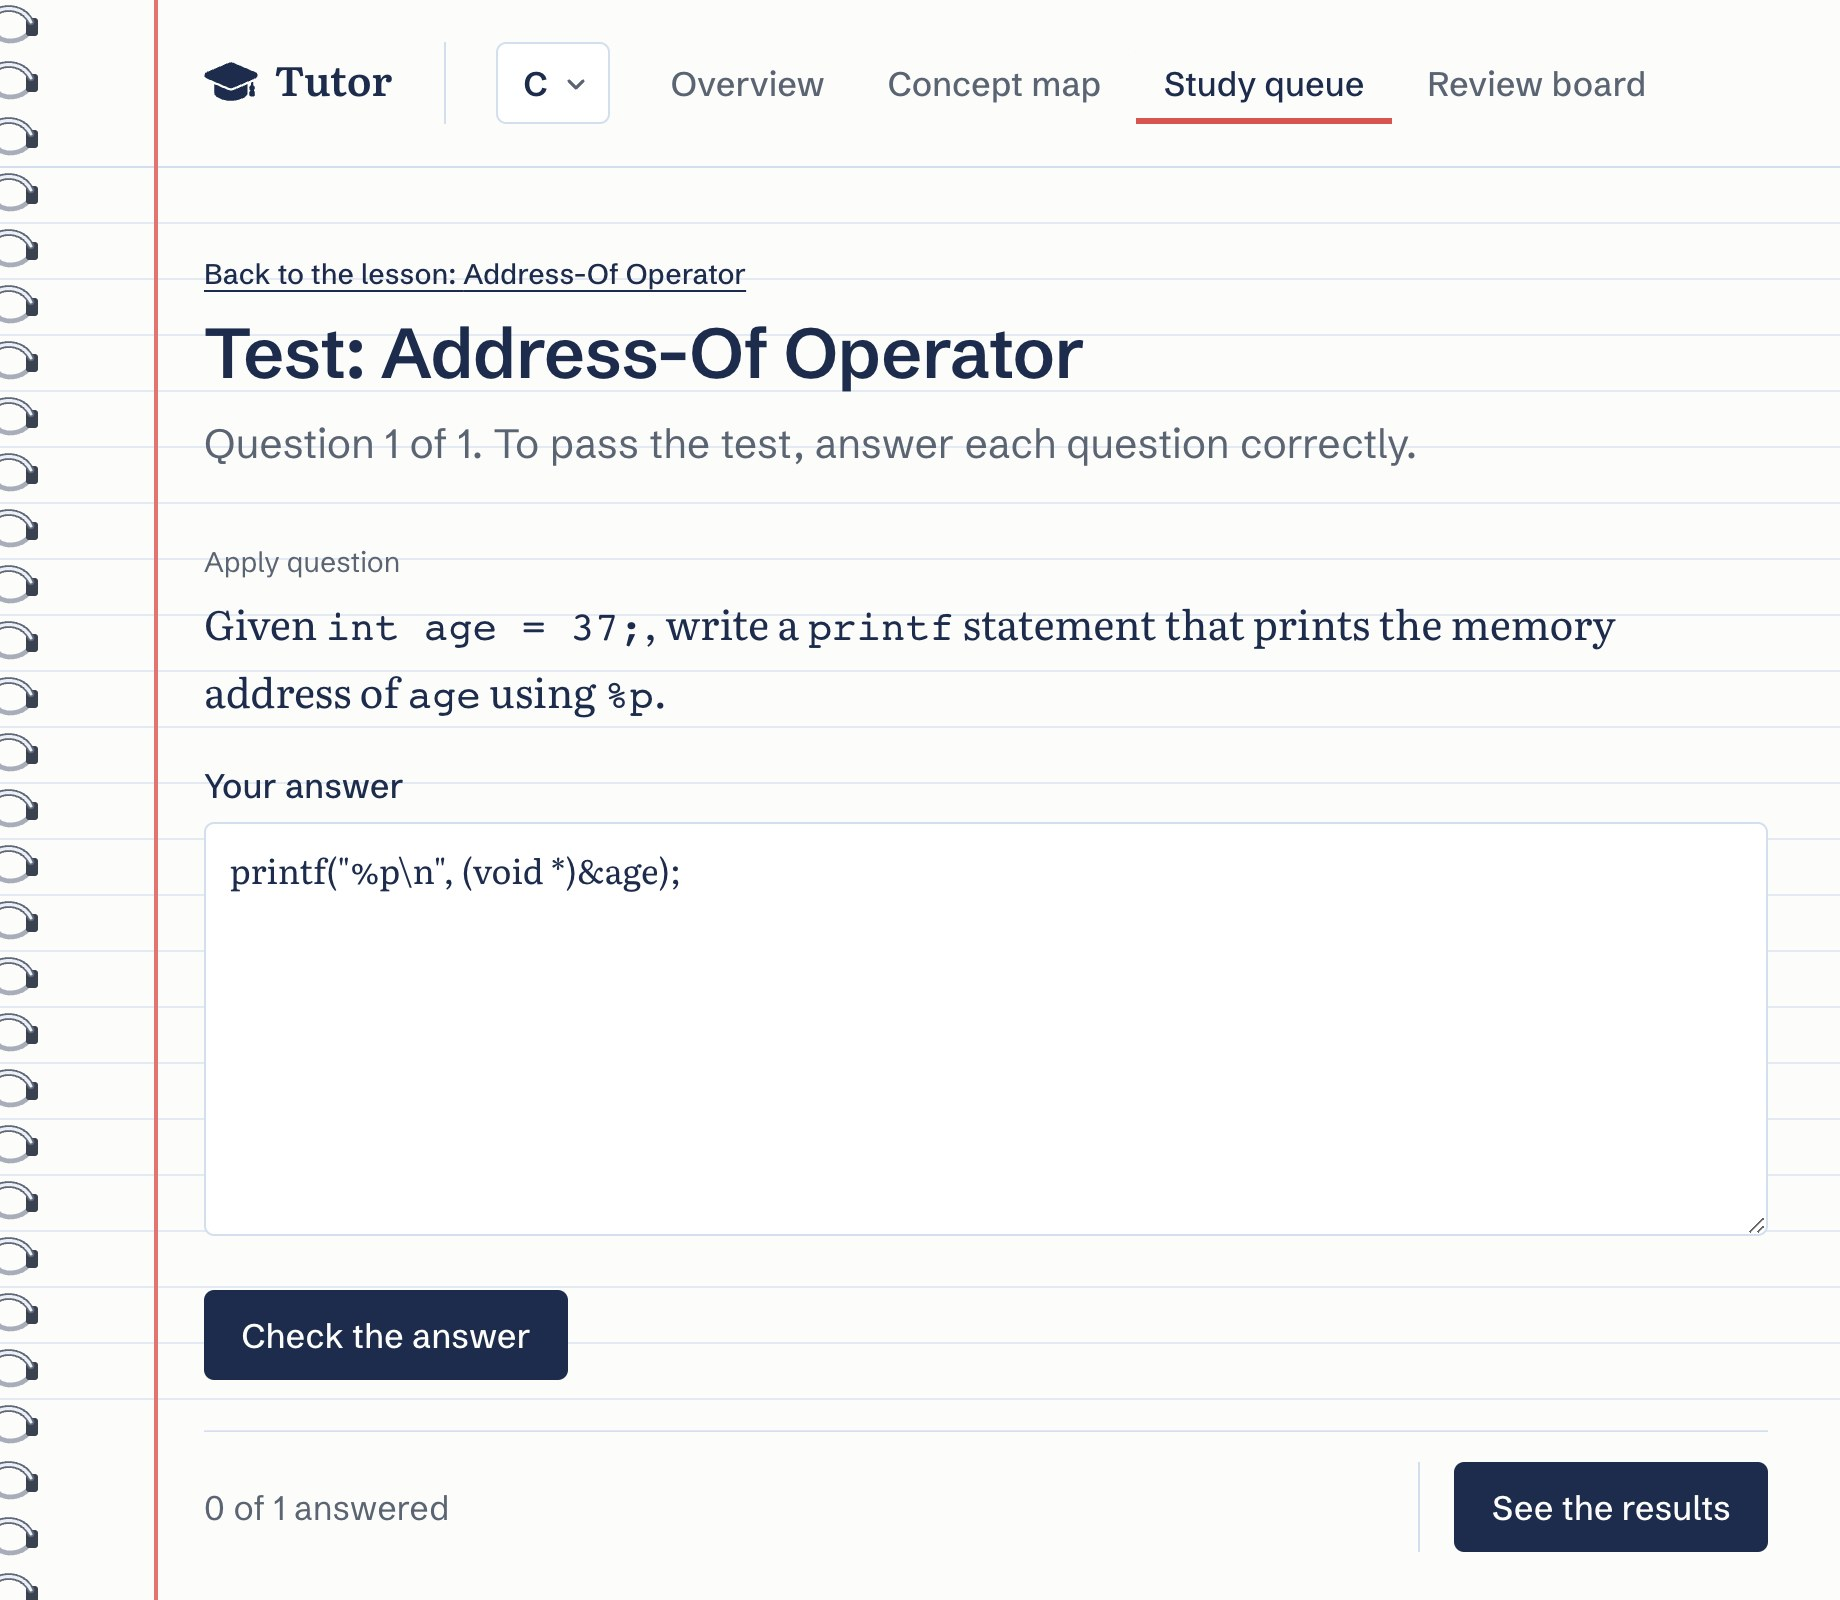
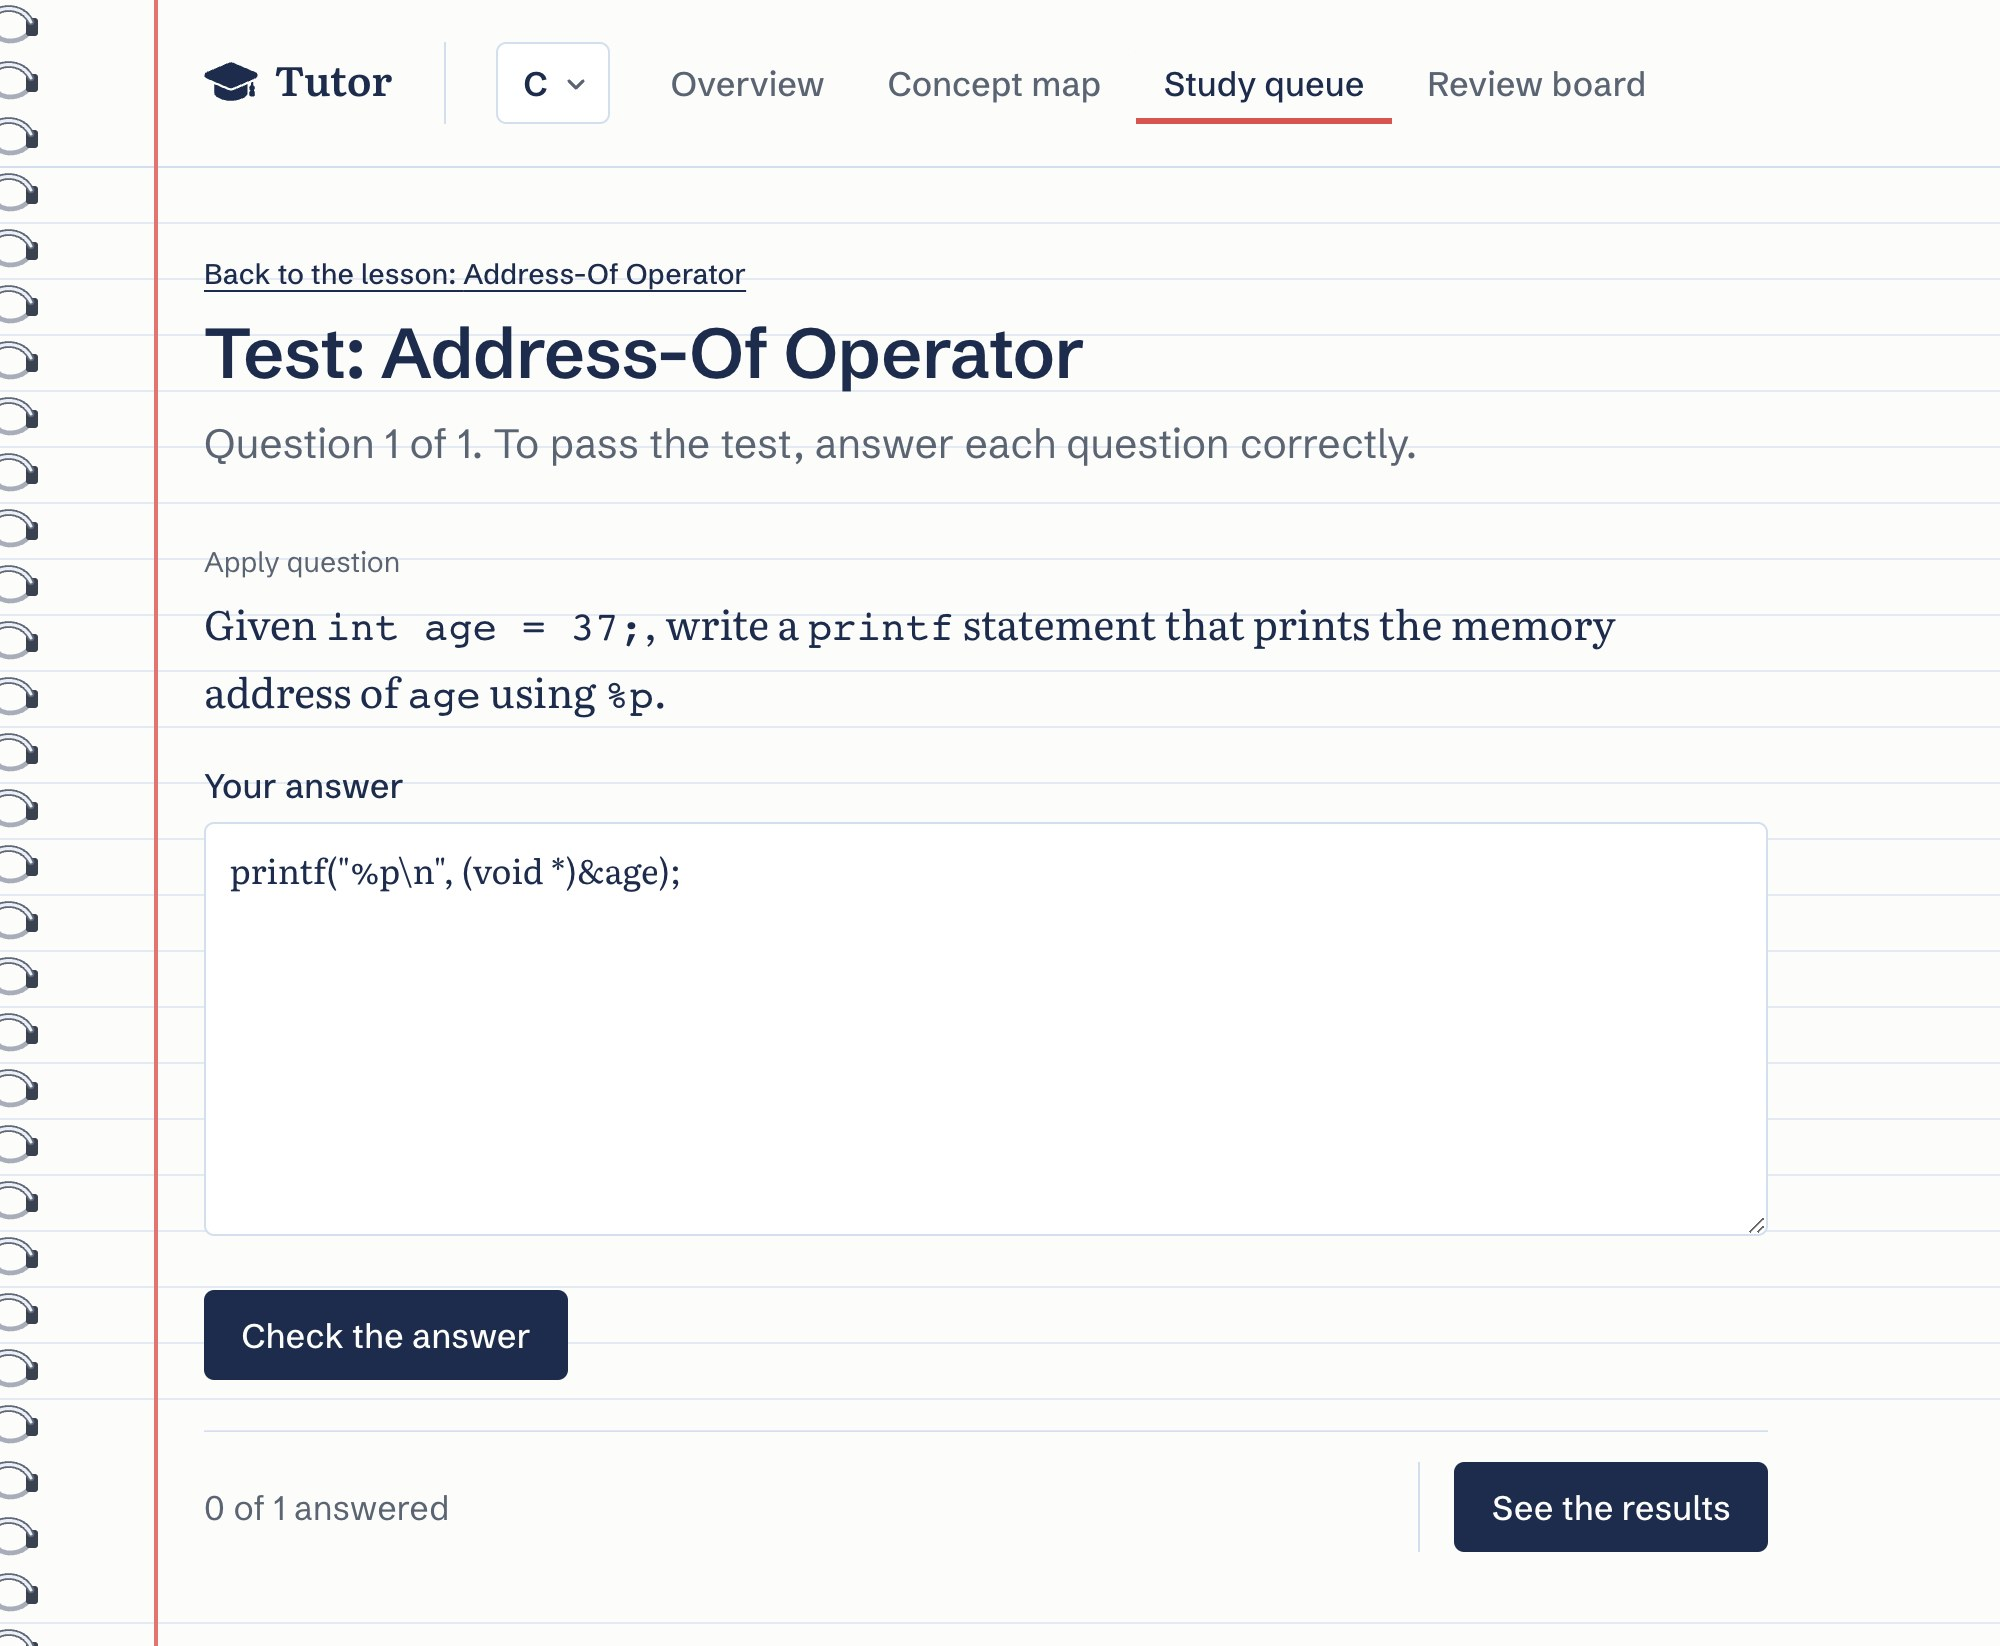
Better screenshots in Readme

diff --git a/README.md b/README.md
@@ -6,9 +6,18 @@ A personal tutor that teaches from your own books. You make a subject of study, 
 
 The tutor runs on your computer. It uses one large language model (LLM) from Anthropic, OpenAI, or OpenRouter. You select the model.
 
-| Concept map | Lesson | Test |
-| :---: | :---: | :---: |
-| <img src="docs/images/concept-map.jpg" alt="The concept map of the subject C. The color of each row shows the status of the concept." width="240"> | <img src="docs/images/lesson.jpg" alt="A lesson about the address-of operator in C. It has an explanation with numbered references to the book, and an example." width="240"> | <img src="docs/images/test.jpg" alt="The test for the address-of operator. It has one question and an answer to check." width="240"> |
+<table>
+  <tr>
+    <th>Concept map</th>
+    <th>Lesson</th>
+    <th>Test</th>
+  </tr>
+  <tr>
+    <td valign="top"><img src="docs/images/concept-map.jpg" alt="The concept map of the subject C. The color of each row shows the status of the concept." width="240"></td>
+    <td valign="top"><img src="docs/images/lesson.jpg" alt="A lesson about the address-of operator in C. It has an explanation with numbered references to the book, an example, common mistakes, and a box for questions." width="240"></td>
+    <td valign="top"><img src="docs/images/test.jpg" alt="The test for the address-of operator. It has one question and an answer to check." width="240"></td>
+  </tr>
+</table>
 
 ## Why not a simple chat with your books?
 
